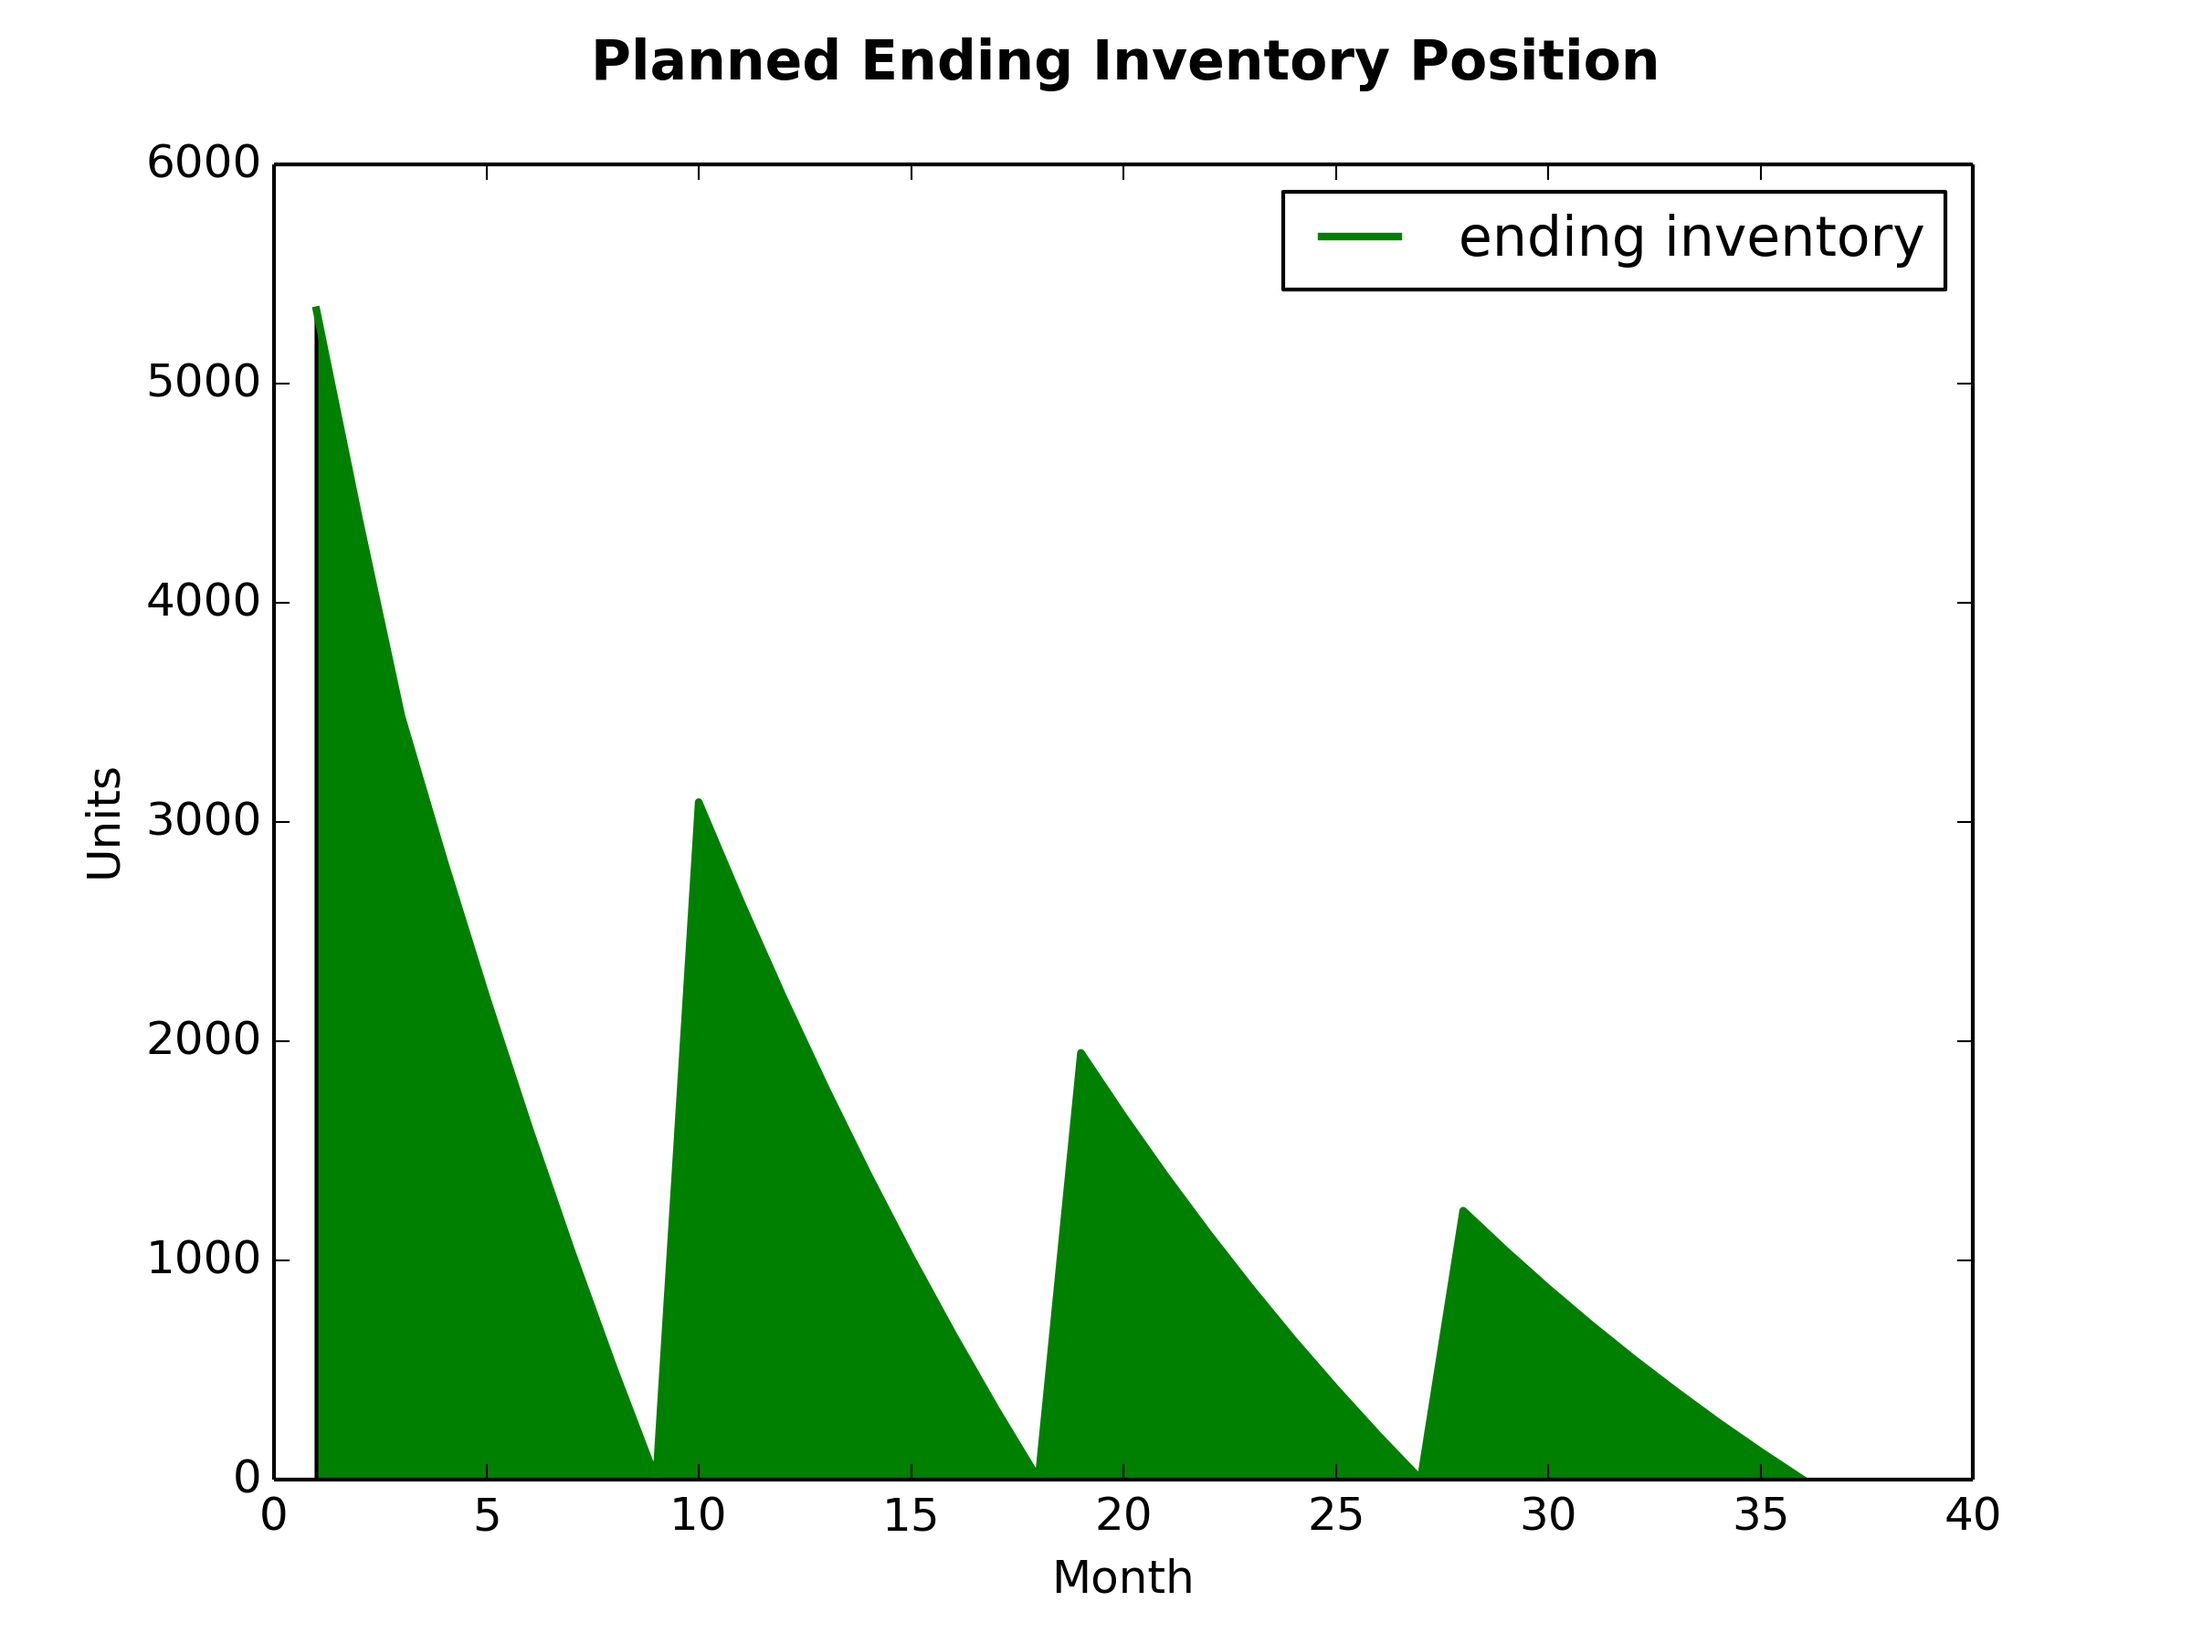
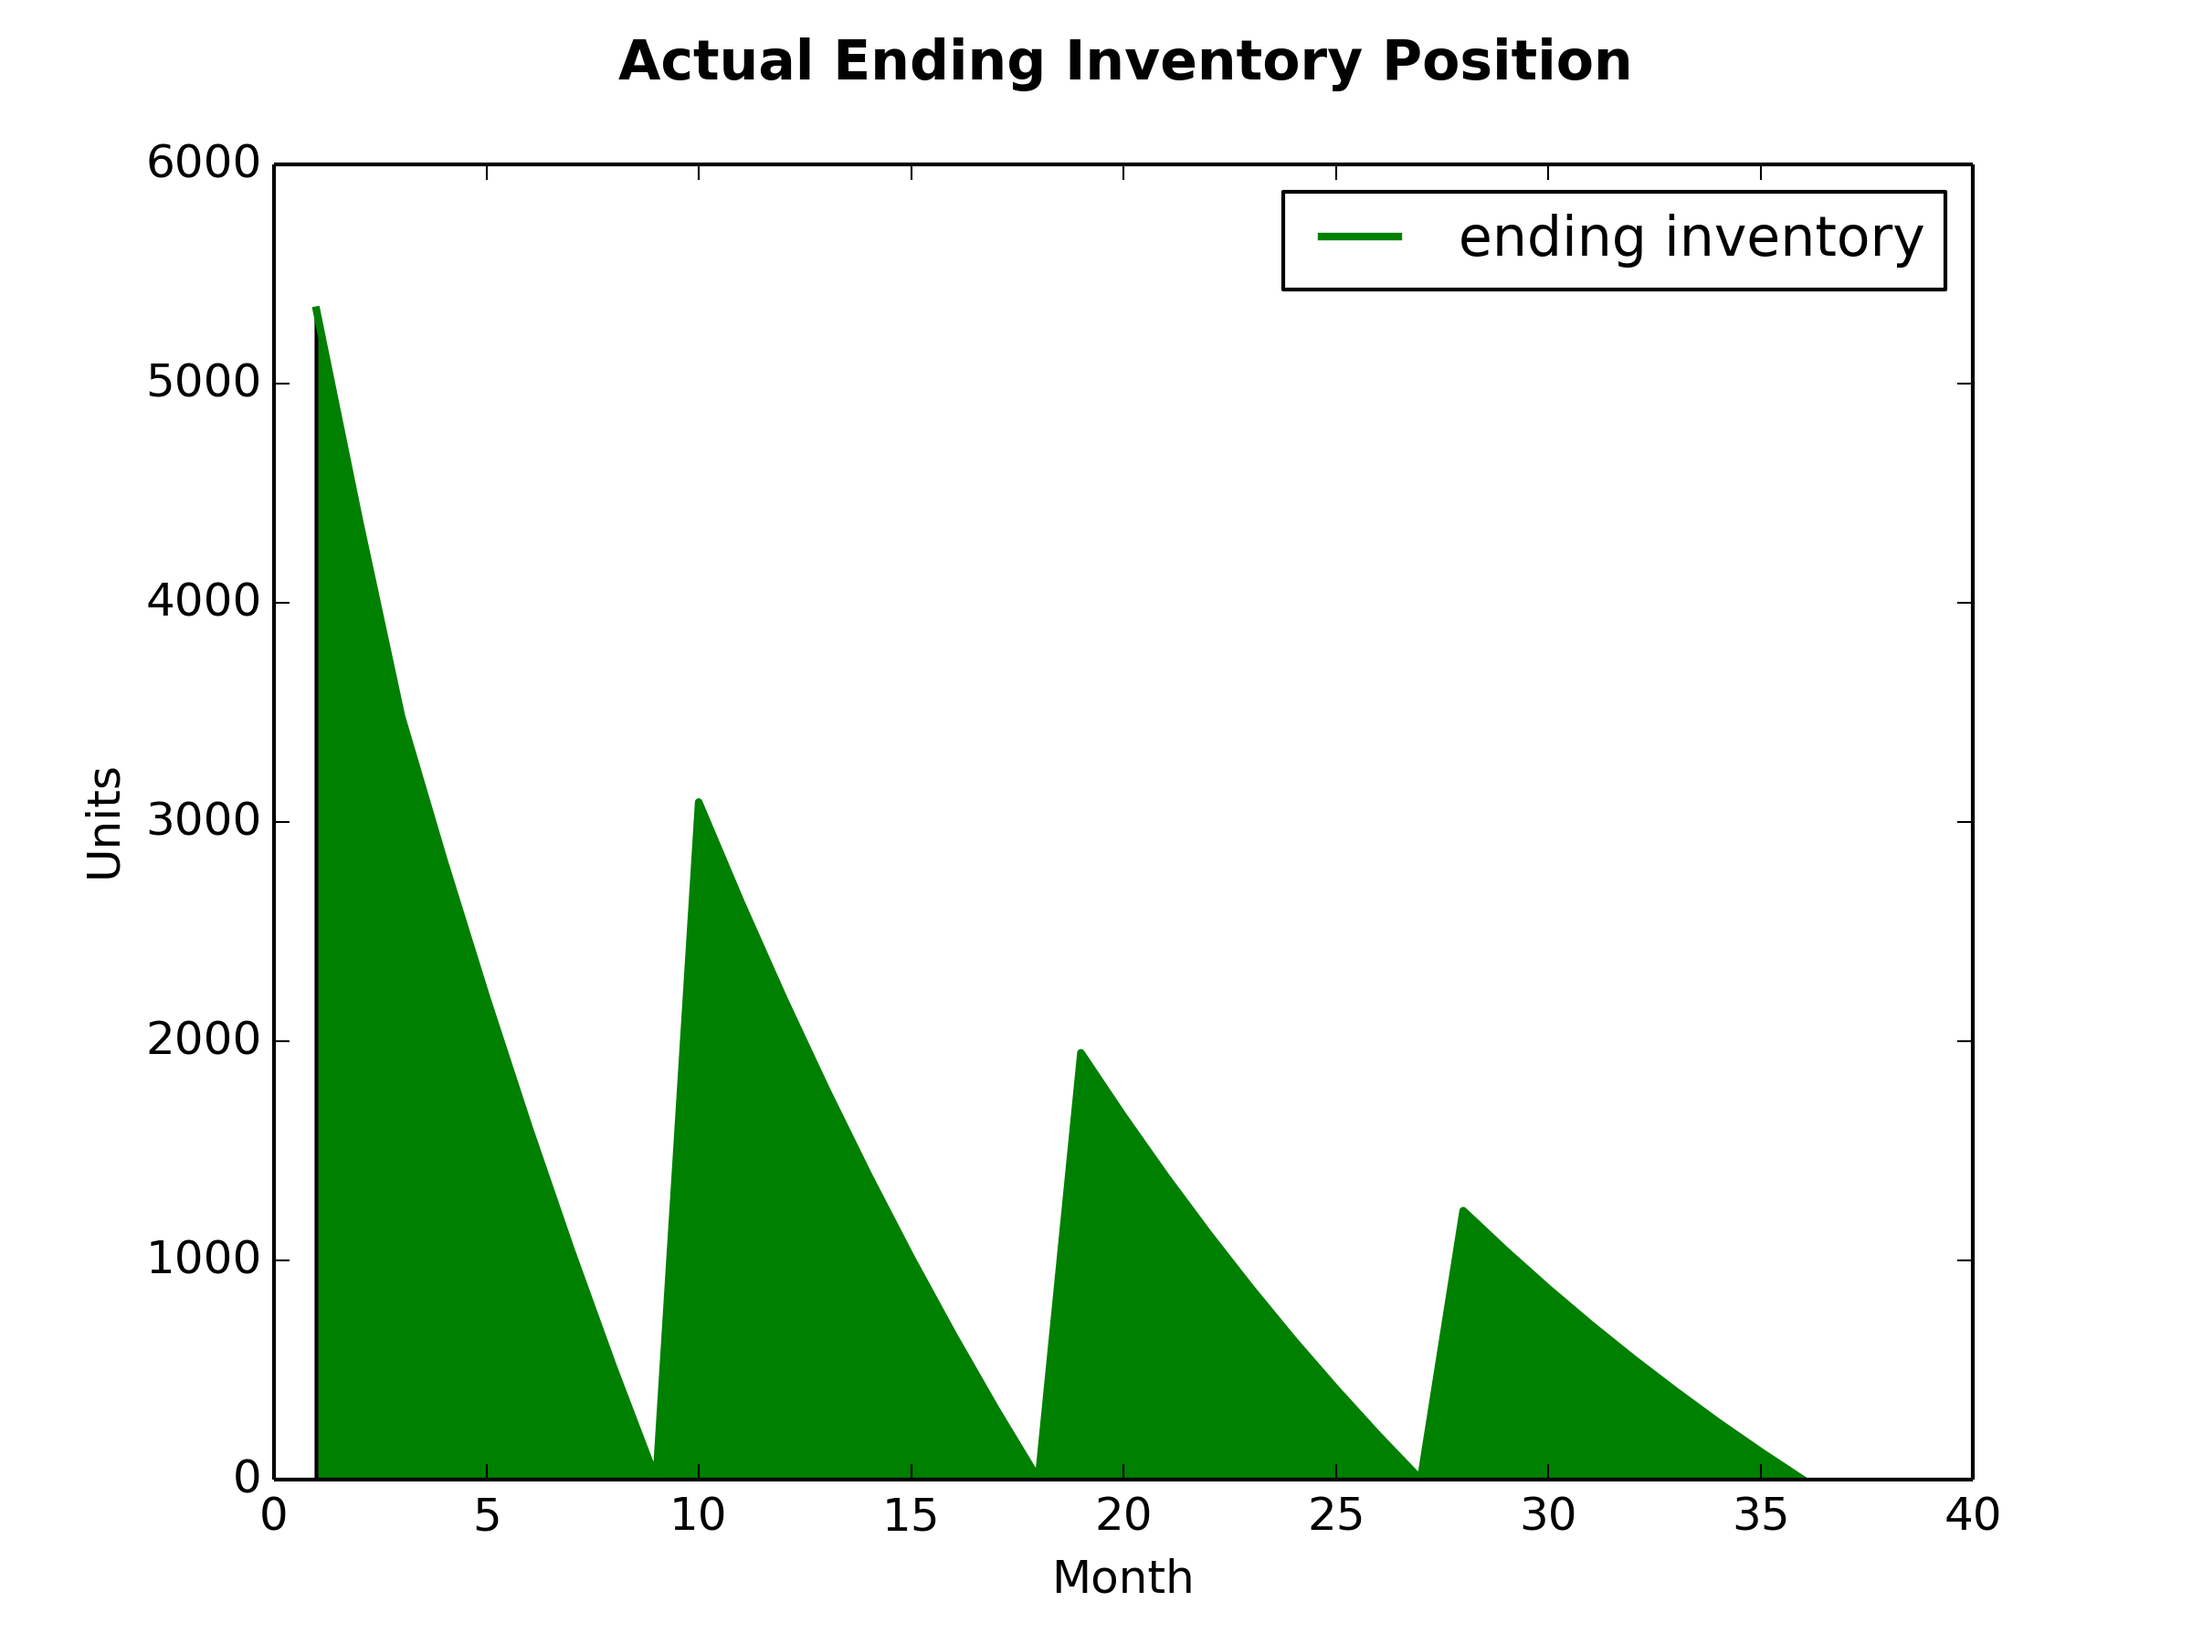
implements (lame) main processing file

Changed region(s): [[0.25, 0.0, 0.75, 0.0622]]

diff --git a/scripts/output.py b/scripts/output.py
@@ -22,7 +22,7 @@ def plot_forecast(month, forecast):
 
     plt.title('Forecasted Demand', y=1.05, weight = "bold")
     plt.legend()
-    plt.savefig('../output/' + '01_forecast.png',dpi=300)
+    plt.savefig('./output/' + '01_forecast.png',dpi=300)
     plt.figure(1)
 
 def plot_returns(month, forecast, returns):
@@ -33,19 +33,19 @@ def plot_returns(month, forecast, returns):
 
     plt.title('Forecasted Demand and Returns', y=1.05, weight = "bold")
     plt.legend()
-    plt.savefig('../output/' + '02_returns.png', dpi=300)
+    plt.savefig('./output/' + '02_returns.png', dpi=300)
     plt.figure(2)
 
-def plot_end_inv(month, end_inv):
+def plot_end_inv(month, end_inv, title, filename):
     plt.plot(month,end_inv, linewidth=2.0, color = "g",label='ending inventory')
     d = np.array([0]*len(month))
     plt.fill_between(month, d, end_inv, where=end_inv>=d, interpolate=True, facecolor='green')
     plt.ylabel('Units')
     plt.xlabel('Month')
 
-    plt.title('Planned Ending Inventory Position', y=1.05, weight = "bold")
+    plt.title(title, y=1.05, weight = "bold")
     plt.legend()
-    plt.savefig('../output/' + '03_inventory.png', dpi=300)
+    plt.savefig('./output/' + filename, dpi=300)
 
     plt.figure(3)
 
@@ -85,7 +85,7 @@ def plot_cost_bars(FMC, VMC, POD_VMC, carry_stg_cost):
                ncol=1, fancybox=True, shadow=True)
     plt.grid()
 
-    plt.savefig('../output/' + '04_plan_cost.png', dpi=300, 
+    plt.savefig('./output/' + '04_plan_cost.png', dpi=300, 
             bbox_extra_artists=(lgd,), bbox_inches='tight')
     plt.figure(4)
 
@@ -99,7 +99,7 @@ def plot_demand(month, forecast, demand, lower_CI, upper_CI):
     plt.title('Demand: Actual vs. Forecast', y=1.05, weight = "bold")
     plt.legend()
 
-    plt.savefig('../output/' + '05_forecast_error.png', dpi=300)
+    plt.savefig('./output/' + '05_forecast_error.png', dpi=300)
 
     plt.figure(5)
 
@@ -118,7 +118,7 @@ def plot_end_inv_posn_act(month, end_inv_posn_act):
     plt.title('Actual Ending Inventory Position', y=1.05, weight = "bold")
     plt.legend()
 
-    plt.savefig('../output/' + '06_inventory_posn.png', dpi=300)
+    plt.savefig('./output/' + '06_inventory_posn.png', dpi=300)
     plt.figure(6)
 
 def plot_cost_bars_2(FMC, VMC, POD_VMC, carry_stg_cost, exp_lost_sales_cost):
@@ -158,7 +158,7 @@ def plot_cost_bars_2(FMC, VMC, POD_VMC, carry_stg_cost, exp_lost_sales_cost):
                 'POD Safety'), loc='upper center', bbox_to_anchor=(0.95, 1.05), ncol=1, fancybox=True, shadow=True)
     plt.grid()
 
-    plt.savefig('../output/' + '07_lost_sale_cost.png', dpi=300, 
+    plt.savefig('./output/' + '07_lost_sale_cost.png', dpi=300, 
             bbox_extra_artists=(lgd,), bbox_inches='tight')
     plt.figure(7)
 
@@ -178,7 +178,7 @@ def plot_end_inv_2(month, end_inv, end_inv_ss):
     plt.title('Expected Ending Inventory Position', y=1.05, weight = "bold")
     plt.legend()
 
-    plt.savefig('../output/' + '08_safety_stock.png', dpi=300)
+    plt.savefig('./output/' + '08_safety_stock.png', dpi=300)
     plt.figure(8)
 
 def plot_end_inv_3(month, end_inv_posn_act):
@@ -195,7 +195,7 @@ def plot_end_inv_3(month, end_inv_posn_act):
     plt.title('Actual Ending Inventory Position', y=1.05, weight = "bold")
     plt.legend()
 
-    plt.savefig('../output/' + '09_POD_posn.png', dpi=300)
+    plt.savefig('./output/' + '09_POD_posn.png', dpi=300)
     plt.figure(9)
 
 def plot_cost_bars_final(FMC, FMC_ss, VMC, VMC_ss, POD_VMC, POD_VMC_ss, carry_stg_cost, carry_stg_cost_ss, exp_lost_sales_cost, exp_lost_sales_cost_ss, lost_sales_as_POD):
@@ -238,6 +238,6 @@ def plot_cost_bars_final(FMC, FMC_ss, VMC, VMC_ss, POD_VMC, POD_VMC_ss, carry_st
                ncol=1, fancybox=True, shadow=True)
     plt.grid()
 
-    plt.savefig('../output/' + '10_final_cost_comparison.png', dpi=300, bbox_extra_artists=(lgd,), bbox_inches='tight')
+    plt.savefig('./output/' + '10_final_cost_comparison.png', dpi=300, bbox_extra_artists=(lgd,), bbox_inches='tight')
     plt.figure(10)
 

diff --git a/generate_presentation.py b/generate_presentation.py
@@ -1,5 +1,5 @@
-import processing as p
-import output as o
+import scripts.processing as p
+import scripts.output as o
 import pandas as pd
 import numpy as np
 from scipy import stats
@@ -63,7 +63,7 @@ POD_breakeven = p.calc_POD_breakeven(cost)
 
 orders, POD_orders, start_inv, end_inv, avg_inv = p.determine_plan(month, forecast, returns, cost, order_n_months_supply, [0]* number_months)
 
-o.plot_end_inv(month, end_inv)
+o.plot_end_inv(month, end_inv,'Actual Ending Inventory Position', '03_inventory.png')
 
 
 
@@ -133,7 +133,8 @@ FMC_ss, VMC_ss, POD_VMC_ss, umc_ss, carry_stg_cost_ss, exp_lost_sales_cost_ss = 
 print "\tExpected lost sales (units) no SS:", int(sum(exp_lost_sales_cost)/cost['lost_margin'])
 print "\tExpected lost sales (units) with SS:", int(sum(exp_lost_sales_cost_ss)/cost['lost_margin'])
 
-o.plot_end_inv_2(month, end_inv, end_inv_ss)
+#o.plot_end_inv_2(month, end_inv, end_inv_ss)
+o.plot_end_inv(month, end_inv_ss, 'Expected Ending Inventory Position (Safety Stock)', '08_safety_stock.png')
 
 
 print "\n9. Another is to use POD."

diff --git a/test.py b/test.py
@@ -1,1 +1,4 @@
-import processing as p
+import sys
+print sys.path
+#sys.path.append("./scripts")
+import scripts.output as o
